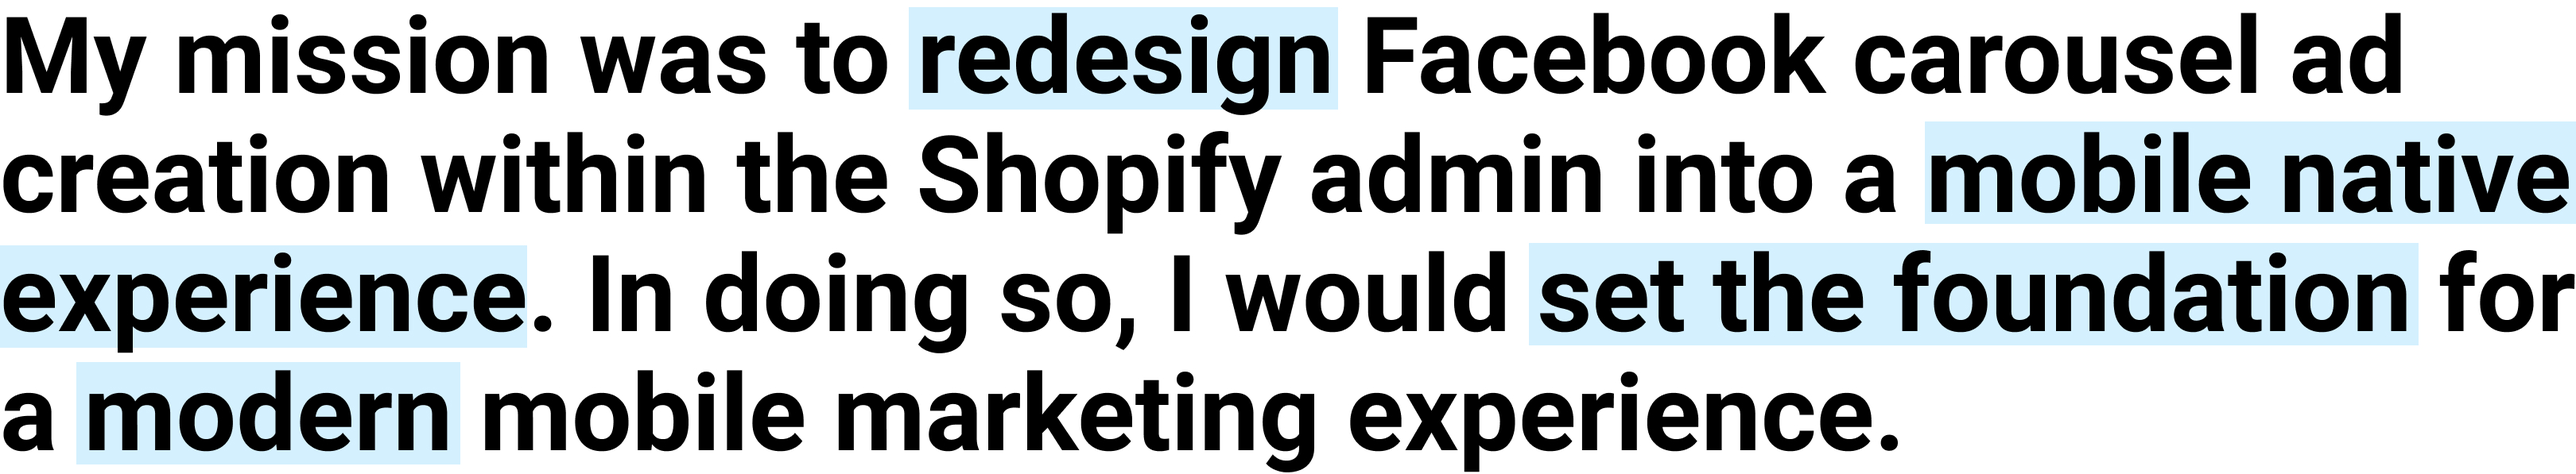
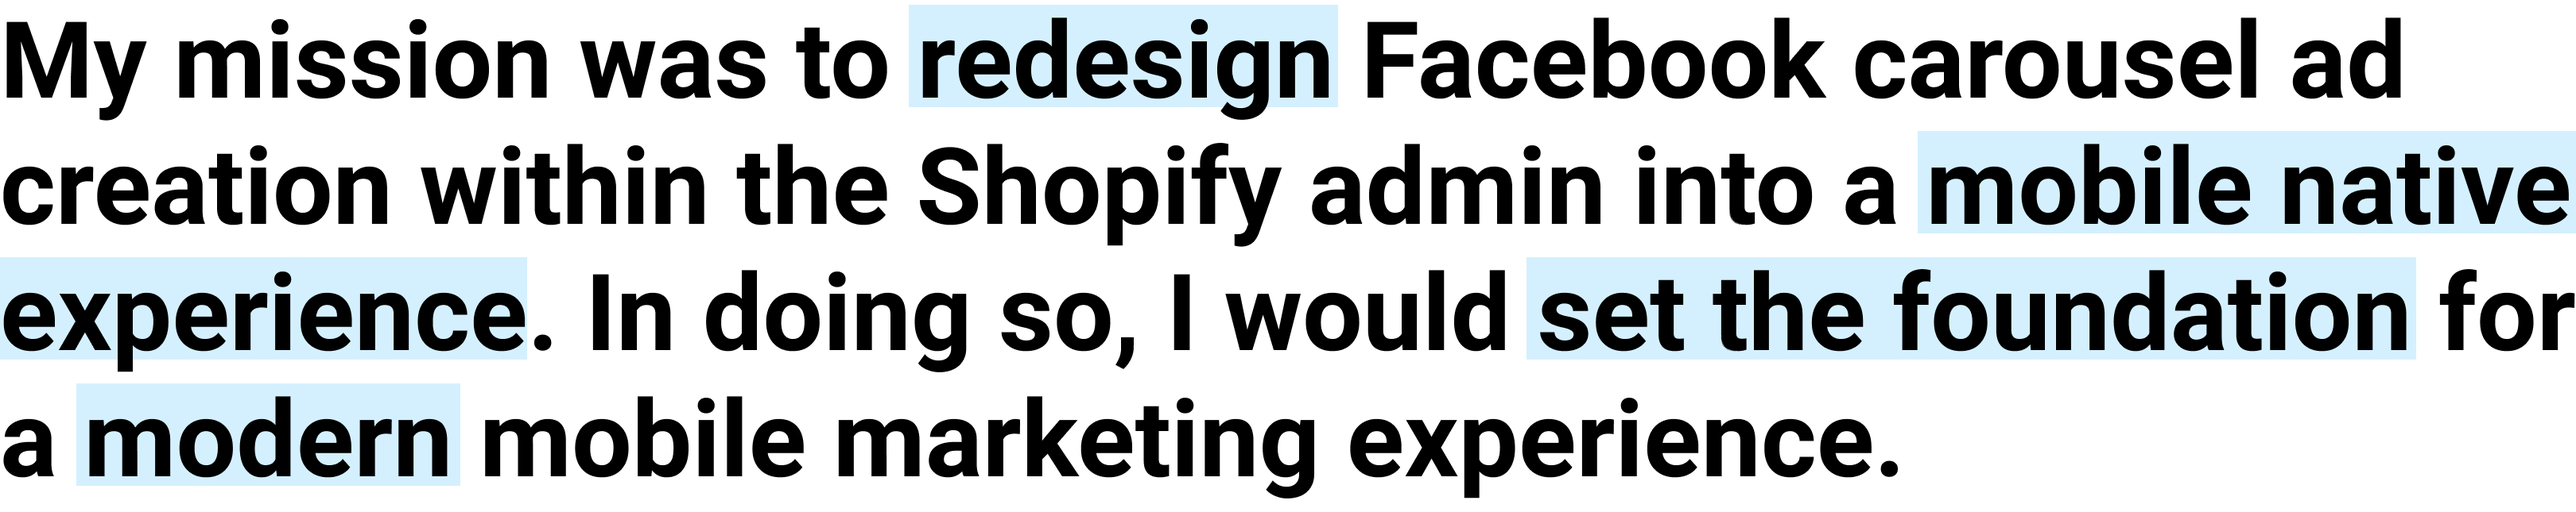
workin

diff --git a/mobileMarketing.html b/mobileMarketing.html
@@ -75,7 +75,7 @@
 
 		<div class="normalWidth">
 			<figure class="caseImages">
-				<img src="mission.jpg" alt="My mission was to redesign Facebook carousel ads into a mobile native experience. In doing so, I would set the foundation for a modern mobile marketing experience." style='height: 100%; width: 100%; object-fit: cover; margin-top: 80px; margin-bottom: 65px'>
+				<img src="mission.jpg" alt="My mission was to redesign Facebook carousel ads into a mobile native experience. In doing so, I would set the foundation for a modern mobile marketing experience." style='height: 100%; width: 100%; object-fit: cover; margin-top: 80px; margin-bottom: 60px'>
 			</figure>
 		</div>
 
@@ -92,12 +92,12 @@
 
 		<div class="normalWidth">
 			<br>
-			<h3 style="margin-top: 60px">Goals</h3>
+			<h3 style="margin-top: 40px">Goals</h3>
 				<ol style="margin-left: 30px; margin-top: 18px">
 					<li style="font-family: Montserrat;font-size: 24px; font-weight: 700; color: #000000;"> Revamp the experience to a fully native mobile experience that <mark>adhered</mark> to Shopify's <mark>Polaris design system</mark></li>
 
 					<br><li style="font-family: Montserrat;font-size: 24px; font-weight: 700; color: #000000;">Create an experience that is friendly to both <mark>first time</mark> and <mark>repeat</mark> users of Facebook carousel ads</li>
-					<br><li style="font-family: Montserrat;font-size: 24px; font-weight: 700; color: #000000;">Design components that were <mark>scaleable and robust</mark> enough for future, more complex marketing campaign types</li>
+					<br><li style="font-family: Montserrat;font-size: 24px; font-weight: 700; color: #000000;">Design components that were <mark>scaleable and robust</mark> enough for <mark>future complex</mark> marketing campaigns</li>
 				</ol>
 				<br>
 				<br>
@@ -113,7 +113,7 @@
 			</div>
 
 			<div class="biggerWidth">
-				<figure style="margin-top: 30px;margin-bottom: 30px">
+				<figure style="margin-top: 30px;margin-bottom: 35px">
 					<img src="airbnb.png" alt="demonstration of how long forms could get" style='width: 100%; object-fit: cover'>
 					<center><figcaption>Airbnb displaying their mastery over making long form pages delightful experiences to fill out</figcaption></center>
 				</figure>
@@ -127,8 +127,17 @@
 					</ul></p>
 				<h3 style="margin-top: 60px">Visual design</h3>
 				<h2 style="margin-top: 18px">Adhering to Polaris and Material Design Guidelines</h2>
-				<p style="margin-top: 18px">The previous web-view created an inconsistent experience with the rest of the native experience inside the mobile app. Thus, I had to first modernize the visual design language within Facebook carousel ad creation.</p>
+				<p style="margin-top: 18px">The previous web view created an inconsistent experience with the rest of the native experience inside the mobile app. Thus, I had to first modernize the visual design language within Facebook carousel ad creation.</p>
+			</div>
 
+			<div class="biggerWidth">
+				<figure style="margin-top: 30px;margin-bottom: 40px">
+					<img src="old web.jpg" alt="what was wrong with the old visual design" style='width: 100%; object-fit: cover'>
+					<center><figcaption>Just an example of some of the visual design errors with the old web view</figcaption></center>
+				</figure>
+			</div>
+
+			<div class="normalWidth">
 				<h3 style="margin-top: 60px">Information architecture</h3>
 				<h2 style="margin-top: 18px">Designing a scaleable marketing section</h2>
 				<p style="margin-top: 20px">The form had no organizational structure and new components were simply appended onto the end. I took into account the constraints of all the campaign types in the marketing section to establish an organized structure to form components and group them based on the component's purpose.</p>
